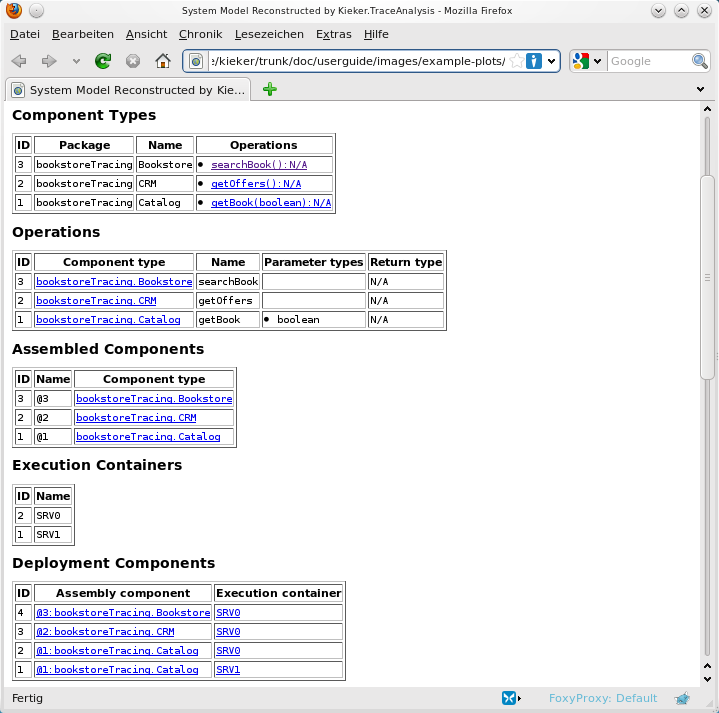
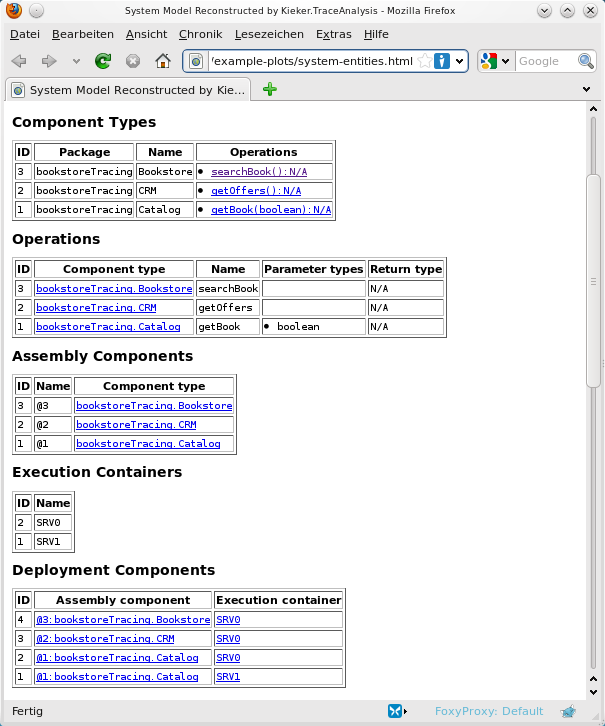
library table now alphabetically sorted

Changed region(s): [[0.0, 0.0, 1.0, 0.9874], [0.6248, 0.9565, 0.9521, 0.9874], [0.8926, 0.0, 1.0, 0.0309]]

diff --git a/doc/userguide/images/example-plots/system-entities.html b/doc/userguide/images/example-plots/system-entities.html
@@ -73,7 +73,7 @@ h1 { font-family:sans; font-size:14px; }
 <td>N/A</td>
 </tr>
 </table>
-<h1>Assembled Components</h1>
+<h1>Assembly Components</h1>
 <table border="1"><tr>
 <th class="colTitle">ID</th>
 <th class="colTitle">Name</th>

diff --git a/doc/userguide/Libraries.tex b/doc/userguide/Libraries.tex
@@ -4,63 +4,63 @@
 Filename & Description\\
 \hline
 \hline 
-spring.jar & The spring framework delivers different methods and classes to make the handling with Java/Java EE easier.\\
+aspectjrt-1.6.9.jar & This jar-file contains the runtime library for AspectJ programs.\\
 \hline 
-derby.jar & Apache Derby is a lightweight database written in Java which can also be used as an embedded database. This library contains the necessary drivers for the database as well as the database managment system itself.\\
+aspectjtools-1.6.9.jar & This package contains the tools (the AspectJ Compiler and Browser) for AspectJ.\\
+\hline 
+aspectjweaver-1.6.9.jar & This jar contains the weaver-agent for the aspect-oriented-extension for Java named AspectJ.\\
+\hline 
+commons-cli-1.2.jar & Apache Commons CLI provides a simple API for working with the command line arguments and options.\\
+\hline 
+commons-io-1.2.jar & Apache Commons-IO contains utility classes, stream implementations, file filters, and endian classes.\\
+\hline 
+commons-logging-1.1.1.jar & Apache Commons Logging is a thin adapter allowing configurable bridging to other, well known logging systems.\\
 \hline 
 commons-pool-1.2.jar & Apache Commons Pool is an Object-pooling API supplying different interfaces and classes to create modular object pools.\\
 \hline 
 concurrent-1.3.4.jar & This library supplies different thread-safe classes for the enhanced development of multithreaded Java applications.\\
 \hline 
-junit-4.5.jar & This jar-file contains the necessary classes for the JUnit-tests, which can be used to test automatically Java classes.\\
-\hline 
-commons-logging-1.1.1.jar & Apache Commons Logging is a thin adapter allowing configurable bridging to other, well known logging systems.\\
-\hline 
-servlet-api.jar & The Java Servlet API supplies protocols to let applications respond for example to HTTP requests.\\
-\hline 
-aspectjweaver-1.6.9.jar & This jar contains the weaver-agent for the aspect-oriented-extension for Java named AspectJ.\\
-\hline 
-openjms-net-0.7.7-beta-1.jar & OpenJMS is an open source implementation of Sun Microsystems's Java Message Service API 1.1 Specification\\
-\hline 
-spring-web.jar & This library contains the web application context, multipart resolver, Struts support, JSF support and web utilities for the spring framework.\\
-\hline 
-commons-io-1.2.jar & Apache Commons-IO contains utility classes, stream implementations, file filters, and endian classes.\\
-\hline 
-spice-jndikit-1.2.jar & The JNDI Kit is a toolkit for the easy use of the so called Java Naming and Directory Interface.\\
+cxf-api-2.2.9.jar & Apache CXF is an open source services framework.  \\
 \hline 
 cxf-common-utilities-2.2.9.jar & This package contains different classes for Apache CXF.\\
 \hline 
-rabbitmq-client.jar & This library contains the client for the RabbitMQ messaging system.\\
-\hline 
-jndi-1.2.1.jar & The Java Naming and Directory Interface is an API which provides methods for multiple naming and directory services. It can be used for example to register disposed files in a network and to allow other part of a Java program to use them for RMI calls.\\
-\hline 
 cxf-rt-bindings-soap-2.2.9.jar & This package contains necessary files to use Apache CXF as well with the Simple Object Access Protocol (SOAP).\\
-\hline 
-log4j-1.2.15.jar & Apache log4j is a framework for the logging of messages, errors and exceptions in Java applications.\\
-\hline 
-cxf-api-2.2.9.jar & Apache CXF is an open source services framework.  \\
 \hline 
 cxf-rt-core-2.2.9.jar & This library contains the Apache CXF Runtime Core. \\
 \hline 
-aspectjtools-1.6.9.jar & This package contains the tools (the AspectJ Compiler and Browser) for AspectJ.\\
-\hline 
-jms-1.1.jar & Java Message Service is an API to send and receive messages within a client and to control so called Message Oriented Middleware (MOM).\\
-\hline 
-aspectjrt-1.6.9.jar & This jar-file contains the runtime library for AspectJ programs.\\
-\hline 
-servlet.jar & This package contains different classes for the work with servlets.\\
-\hline 
-mysql-connector-java-5.1.5-bin.jar & This library contains the drivers to connect from a Java application to a MySQL database system.\\
-\hline 
-openjms-common-0.7.7-beta-1.jar & OpenJMS is an open source implementation of Sun Microsystems's Java Message Service API 1.1 Specification\\
+derby.jar & Apache Derby is a lightweight database written in Java which can also be used as an embedded database. This library contains the necessary drivers for the database as well as the database managment system itself.\\
 \hline 
 jmc.jar & This library contains the Java Media Components which can be used for example for playing video content in Swing applications.\\
 \hline 
-Scenario.jar & This package provides scene graph functionality for Java.\\
+jms-1.1.jar & Java Message Service is an API to send and receive messages within a client and to control so called Message Oriented Middleware (MOM).\\
 \hline 
-commons-cli-1.2.jar & Apache Commons CLI provides a simple API for working with the command line arguments and options.\\
+jndi-1.2.1.jar & The Java Naming and Directory Interface is an API which provides methods for multiple naming and directory services. It can be used for example to register disposed files in a network and to allow other part of a Java program to use them for RMI calls.\\
+\hline 
+junit-4.5.jar & This jar-file contains the necessary classes for the JUnit-tests, which can be used to test automatically Java classes.\\
+\hline 
+log4j-1.2.15.jar & Apache log4j is a framework for the logging of messages, errors and exceptions in Java applications.\\
+\hline 
+mysql-connector-java-5.1.5-bin.jar & This library contains the drivers to connect from a Java application to a MySQL database system.\\
 \hline 
 openjms-0.7.7-beta-1.jar & OpenJMS is an open source implementation of Sun Microsystems's Java Message Service API 1.1 Specification\\
+\hline 
+openjms-common-0.7.7-beta-1.jar & OpenJMS is an open source implementation of Sun Microsystems's Java Message Service API 1.1 Specification\\
+\hline 
+openjms-net-0.7.7-beta-1.jar & OpenJMS is an open source implementation of Sun Microsystems's Java Message Service API 1.1 Specification\\
+\hline 
+rabbitmq-client.jar & This library contains the client for the RabbitMQ messaging system.\\
+\hline 
+Scenario.jar & This package provides scene graph functionality for Java.\\
+\hline 
+servlet.jar & This package contains different classes for the work with servlets.\\
+\hline 
+servlet-api.jar & The Java Servlet API supplies protocols to let applications respond for example to HTTP requests.\\
+\hline 
+spice-jndikit-1.2.jar & The JNDI Kit is a toolkit for the easy use of the so called Java Naming and Directory Interface.\\
+\hline 
+spring.jar & The spring framework delivers different methods and classes to make the handling with Java/Java EE easier.\\
+\hline 
+spring-web.jar & This library contains the web application context, multipart resolver, Struts support, JSF support and web utilities for the spring framework.\\
 \hline 
 \end{longtable}
 \label{tabular:libraries}

diff --git a/doc/userguide/Appendix-ch-javaEEServletContainerExample.inc.tex b/doc/userguide/Appendix-ch-javaEEServletContainerExample.inc.tex
@@ -2,8 +2,9 @@ The \Kieker{} download site\footnote{\KiekerDownloadURL{}} includes an additiona
 example \file{\JavaEEServletExampleName}. Using the sample Java Web application %
 iBATIS JPetStore\footnote{\url{http://ibatis.apache.org/}}, this example %
 demonstrates how to employ \KiekerMonitoringPart{} for monitoring a Java application %
-running in a Java~EE container. Monitoring probes based on Java~EE and AspectJ %
-are used to monitor execution, trace, and session data (see Section~\ref{chap:aspectJ}).
+running in a Java~EE container---in this case, Apache Tomcat\footnote{\url{http://tomcat.apache.org/}}. %
+Monitoring probes based on the Java~EE Servlet API %
+and AspectJ are used to monitor execution, trace, and session data (see Section~\ref{chap:aspectJ}).
 
 \
 
@@ -14,9 +15,9 @@ Windows}
 \section{Preparation of the Tomcat Servlet Container}
 
 \begin{compactenum}
-\item Copy the files \file{\mainJar}, \file{\commonsLoggingJar}, and \file{\aspectJWeaverJar} from the %
-binary distribution to the Tomcat's \dir{lib/} directory.
-\item Copy the file \file{\servletWar} from the %
+\item Copy the files \file{\mainJar}, \file{\commonsLoggingJar}, and \file{\aspectJWeaverJar} from %
+\Kieker{}'s binary distribution to the Tomcat's \dir{lib/} directory.
+\item Copy the file \file{\servletWar} from \Kieker{}'s %
 binary distribution to the Tomcat's \dir{webapps/} directory.
 \item Tomcat's \dir{lib/} directory contains the files \file{kieker.monitoring.properties} %
 and \file{aop.xml} --- the configuration of \KiekerMonitoringPart{} and the %
@@ -45,7 +46,7 @@ accessing the JPetStore web application.
 
 \begin{compactenum}
 \item Start the Tomcat server using the \file{bin/startup.sh} script in the 
-   Tomcat's \dir{bin/} directory (you may have to "\texttt{chmod +x bin/*.sh}" %
+   Tomcat's \dir{bin/} directory (you may have to execute "\texttt{chmod +x bin/*.sh}" %
    in order to set the executable flags of the shell scripts). %
    You should make sure, that the Tomcat started properly, by taking 
    a look at the \file{logs/catalina.out} file. %
@@ -53,14 +54,14 @@ accessing the JPetStore web application.
    to resolve the issue.
 \item Now, you can access the JPetStore application by opening the URL
    \url{http://localhost:8080/jpetstore/} (Figure~\ref{fig:jpetstore}). %
-   Kieker intialization messages should appear in \file{logs/catalina.out}. %
-   The output includes the information where the data is written to
+   \Kieker{} intialization messages should appear in \file{logs/catalina.out}. %
+   The output includes the information where the monitoring data is written to
    (should be Tomcat's \dir{temp/tpmon-<DATE-TIME>/} directory).
 \item  Browse through the application to generate some monitoring data. %
    This data can be analyzed and visualized using \KiekerTraceAnalysis{}, %
    as described in Chapter~\ref{chap:aspectJ}.
-\item \Kieker{} includes a control servlet to check the status of \KiekerMonitoringPart{}. %
-   It can be accessed via: \url{http://localhost:8080/kieker-monitoring-servlet-\version/} %
+\item \Kieker{} includes a servlet to control the status of \KiekerMonitoringPart{}. %
+   It can be accessed via \url{http://localhost:8080/kieker-monitoring-servlet-\version/} %
    (Figure~\ref{fig:controlServlet}).
 \end{compactenum}
 
@@ -89,9 +90,9 @@ the following steps are required:
    binary distribution to the JPetStore's \dir{devlib/} directory. %
    \mainJar{} is required for the annotation-based instrumentation %
    (@OperationExecutionMonitoringProbe), as described in Chapter~\ref{chap:aspectJ}
-\item build the JPetStore with the \file{build.xml} by calling \texttt{ant} from %
+\item Build the JPetStore with the \file{build.xml} by calling \texttt{ant} from %
     within \dir{build/} directory. 
-\item You'll find the packaged JPetStore \file{.war}-file in \dir{build/wars/}
+\item You'll find the packaged JPetStore \file{.war}-file in \dir{build/wars/}.
 \item Copy the file to the Tomcat's \dir{webapps/} directory.
 \end{compactenum}
 

diff --git a/doc/userguide/source-make-library/src/main/Main.java b/doc/userguide/source-make-library/src/main/Main.java
@@ -3,12 +3,14 @@ package main;
 import java.io.BufferedReader;
 import java.io.BufferedWriter;
 import java.io.File;
-import java.io.FileFilter;
 import java.io.FileReader;
 import java.io.FileWriter;
 import java.io.FilenameFilter;
 import java.io.IOException;
+import java.text.Collator;
 import java.util.ArrayList;
+import java.util.Arrays;
+import java.util.Comparator;
 
 /**
  * The main class of the little program. The program itself takes a directory
@@ -87,8 +89,9 @@ public class Main {
 				}
 
 			});
+                        System.out.println("Sorting libs ...");
+                        Arrays.sort(libs, new FileComparator()); // sort alphabetically
 			System.out.println(libs.length + " files/directories found.");
-
 			for (File lib : libs) {
 					System.out.print(lib.getName() + ": ");
 					boolean b = false;
@@ -195,4 +198,27 @@ public class Main {
 	public static void main(String[] args) throws Exception {
 		new Main().doJob(args);
 	}
+
+    /** source: http://weblog.janek.org/Archive/2005/01/16/HowtoSortFilesandDirector.html */
+    private static class FileComparator
+            implements Comparator<File> {
+
+        private Collator c = Collator.getInstance();
+
+        public int compare(File f1,
+                File f2) {
+            if (f1 == f2) {
+                return 0;
+            }
+
+            if (f1.isDirectory() && f2.isFile()) {
+                return -1;
+            }
+            if (f1.isFile() && f2.isDirectory()) {
+                return 1;
+            }
+
+            return c.compare(f1.getName(), f2.getName());
+        }
+    }
 }

diff --git a/doc/userguide/Appendix.tex b/doc/userguide/Appendix.tex
@@ -34,7 +34,16 @@
 \input{Appendix-ch-usingJMS.inc}
 
 \chapter{Libraries}\label{appendix:libraries}
-    The following table shows all libraries which are used by \Kieker\ and explains them briefly.
+    The following table shows all libraries which are used by \Kieker\ and explains them briefly. %
+These libraries are included in the \dir{lib/} directory of both the \Kieker{} binary and %
+source distributions.
+
+The Apache Commons~\cite{CommonsLogging-WebSite} library (\file{\commonsLoggingJar}) %
+is the only third-party library always needed when using \Kieker{}. %
+The need to provide the additional libraries in the classpath depends on the %
+specific configuration. For example, the AspectJ libraries are only required %
+when using AspectJ-based monitoring probes.
+
     \input{Libraries}
 
 % \chapter{Troubleshooting}

diff --git a/doc/userguide/ch2-quickstart-example.inc.tex b/doc/userguide/ch2-quickstart-example.inc.tex
@@ -64,7 +64,7 @@ environments. The file \file{\kiekerMonitoringProperties{}} is a sample configur
 file for \KiekerMonitoringPart{}, as detailed in Chapter~\ref{chap:componentsMonitoring}. %
 Since \Kieker{} uses the Apache Commons library~\cite{CommonsLogging-WebSite} %
 as a logging interface, the file \file{\commonsLoggingJar} is the only dependency %
-to a third-party library which is needed by \Kieker{} in any case. 
+to a third-party library which is needed to execute \Kieker{} in any case. 
 
 %%
 \section{Bookstore Example Application}\label{sec:example:bookstore}

diff --git a/doc/userguide/ch3-kieker-monitoring-component.inc.tex b/doc/userguide/ch3-kieker-monitoring-component.inc.tex
@@ -53,7 +53,6 @@ file, as described in Section~\ref{sec:monitoring:configuration}.
 \label{fig:monitoringController:classdiagram}
 \end{figure}
 
-
 \section{Monitoring Records}\label{sec:componentsMonitoring:monitoringRecords}
 
 Monitoring records are objects that contain the monitoring data, as mentioned %
